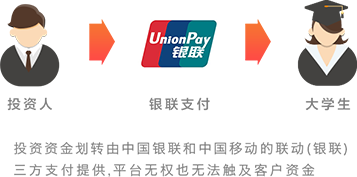
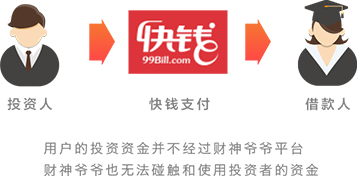
update

diff --git a/src/app/help/help.html b/src/app/help/help.html
@@ -7,14 +7,14 @@
 			<accordion>
 				<accordion-group heading="关于我们" is-open="true">
 					<p>财神爷爷，是麦子金服移动金融集团为广大普通投资用户创建的一个安全、灵活、高收益的互联网理财平台，通过“互联网+”以及移动互联网致力于为用户实现金融平权，普惠金融之梦。</p>
-					<p>财神爷爷提供至少高达8.88%的活期年化利率，按日计息，随取随存，秒杀余某宝等活期理财产品；财神爷爷所有投资资金由银联三方支付公司提供资金独立安全托管，阳光财险公司100亿保函承保；债权全部来自麦子金服移动金融集团旗下的名校贷优质、安全、小额的本科以上大学生助学贷款，并由全球排名第一会计事务所德勤严格专业的债权质量和财务审计。</p>
+					<p>财神爷爷提供至少高达8.88%的活期年化利率，按日计息，随取随存，秒杀余某宝等活期理财产品；财神爷爷所有投资资金由银联三方支付公司提供资金独立安全托管，阳光财险公司100亿保函承保；债权全部来自麦子金服移动金融集团旗下的名校贷、大房东等有本息担保的优质债权，并由全球排名第一会计事务所德勤严格专业的债权质量和财务审计。</p>
 				</accordion-group>
 
 				<accordion-group heading="财神爷爷的特点及优势">
 					<ol>
-						<li>随存随取，灵活便捷：1元起投，当日计息，随时提现，平均到账时间3小时左右。</li>
-						<li>活期高收益：活期年化利率8.88%，是余额宝的3倍，银行活期的25倍，按日计息。</li>
-						<li>本息保障：银联三方支付进行账户监管，账户资金安全由阳光财险集团承保，Verisign提供权威认证，麦子金服提供1亿元人民币连带责任本息担保。</li>
+						<li>随存随取，灵活便捷：1元起投，当日计息，随时提现，平均到账时间2小时左右。</li>
+						<li>活期高收益：活期年化收益率8.88%，是余额宝的3倍，银行活期的25倍。</li>
+						<li>本息保障：快钱三方支付进行账户监管，账户资金安全由阳光财险集团承保，Verisign提供权威认证，麦子金服提供本息担保。</li>
 					</ol>
 				</accordion-group>
 
@@ -92,7 +92,7 @@
 					</div>
 					<div class="row">
 						<div class="col-xs-offset-2 col-xs-2">招商银行</div>
-						<div class="col-xs-2">20万</div>
+						<div class="col-xs-2">5万</div>
 						<div class="col-xs-2">20万</div>
 					</div>
 					<div class="row">
@@ -118,7 +118,7 @@
 
 				<accordion-group heading="财神爷爷购买、提现有手续费吗？">
 					当前您的每一笔购买、提现均不收手续费；后期若有收取，我们会提前公告通知您。
-				</accordion-group>	
+				</accordion-group>
 
 				<accordion-group heading="在财神爷爷提现，资金多久能到账？">
 					我们最快24小时以内，最迟48小时内，目前平均到账时间2小时左右。

diff --git a/src/app/advantage/advantage.html b/src/app/advantage/advantage.html
@@ -3,8 +3,8 @@
 		<div class="row">
 			<div class="col-xs-6 columns text-center img-01"></div>
 			<div class="col-xs-6 columns">
-				<div class="title green">联动(银联+移动)三方托管<br>平台⽆法接触投资者的理财基⾦</div>
-				<div class="desc">联动优势科技有限公司由中国移动与中国银联于2003年8月联合发起成立，致力于为企业和消费者提供创新、绿色、安全、高效的金融及电子商务产品和服务，是目前国内领先的跨综合支付服务、智能金融信息服务、移动化的本地多应用服务三大领域的移动金融及移动电子商务产业链服务提供商。</div>
+				<div class="title green">快钱第三方支付平台资金托管<br>确保财神爷爷平台无法碰触用户投资资金</div>
+				<div class="desc">快钱公司是国内领先的创新型互联网金融机构。基于十多年在电子支付领域的积累为消费者和企业提供丰富的支付工具。快钱产品和服务的高度安全性以及严格的风险控制体系深受业内专家和众多企业的好评。快钱整套安全体系获得了美国MasterCard网站信息安全认证、美国Visa持卡人信息安全认证和美国AmericanExpress运通的DSS认证，拥有国际最高标准PCI(Payment Card Industry)信息安全认证和ISO/IEC 27001认证。</div>
 			</div>
 		</div>
 
@@ -21,13 +21,13 @@
 			<div class="col-xs-6 columns text-center img-03">
 			</div>
 			<div class="col-xs-6 columns">
-				<div class="title no-desc">麦子金服提供<br><strong>一亿</strong>人民币连带责任本息担保</div>
+				<div class="title no-desc">麦子金服提供本息担保</div>
 			</div>
 		</div>
 
 		<div class="row">
 			<div class="col-xs-6 columns">
-				<div class="title no-desc">名校贷本科以上的大学生消费助学贷款<br>坏账率仅<strong>0.048%</strong>，秒杀全行业</div>
+				<div class="title no-desc">名校贷大学生消费助学贷款<br>坏账率仅<strong>0.048%</strong>，秒杀全行业</div>
 			</div>
 			<div class="col-xs-6 columns text-center img-04">
 			</div>

diff --git a/src/app/main/main.html b/src/app/main/main.html
@@ -10,10 +10,10 @@
 
 
 <div class="container what">
-  <h1 class="text-center">什么是财神爷爷？</h1>
-  <p> 财神爷爷是麦子金服移动金融集团为广大投资用户创建的一个高收益、易存取、高保障的移动互联网投资理财产品，致力于为广大用户提供具有高效快捷安全的移动理财服务。</p>
+  <h1 class="text-center">财神爷爷是谁？</h1>
+  <p> 财神爷爷是麦子金服移动金融集团为广大投资用户创建的一个高收益、低风险、易存取的移动互联网投资理财平台，致力于为用户提供高效、快捷、安全的互联网移动理财服务。借助财神爷爷App，用户可随时随地存取资金，预计年化活期收益率高达8.88%，是目前活期收益率最高的互联网理财产品，接近甚至超过市场上主流定期理财产品。</p>
   <p>
-    财神爷爷的核心是一款可以随时存取的高收益投资理财产品，提供固定8.88%的活期年化收益率，是目前活期利率收益最高的理财产品。财神爷爷立志为广大投资用户创造最大的价值，更高的收益，贴心的服务。
+    财神爷爷平台上可购买的债权，主要来源于麦子金服旗下的名校贷、大房东等资产端的优质贷款债权，由全球排名领先的德勤会计事务所进行严格专业的债权审计，用户在财神爷爷的每一笔投资均由快钱第三方支付平台进行专业资金托管，财神爷爷平台本身并不会碰触到用户的投资资金。阳光财产保险公司还对每笔交易承担保险责任，在投资、提现各环节全面保险投资者的资金安全。
   </p>
 </div>
 

diff --git a/src/app/about/about.html b/src/app/about/about.html
@@ -3,7 +3,7 @@
 		<aside class="side-menu">
 			<ul class="list-unstyled text-center">
 				<li ng-class="{active: state==='about.company'}"><a ui-sref="about.company">公司介绍</a></li>
-				<li ng-class="{active: state==='about.team'}"><a ui-sref="about.team">团队介绍</a></li>
+				<!-- <li ng-class="{active: state==='about.team'}"><a ui-sref="about.team">团队介绍</a></li> -->
 				<li ng-class="{active: state==='about.dynamic'}"><a ui-sref="about.dynamic">公司动态</a></li>
 				<li ng-class="{active: state==='about.join'}"><a ui-sref="about.join">加入我们</a></li>
 				<li ng-class="{active: state==='about.contact'}"><a ui-sref="about.contact">联系我们</a></li>

diff --git a/src/app/main/main.scss b/src/app/main/main.scss
@@ -14,6 +14,10 @@
 	background: url(/assets/images/banner-04.jpg) no-repeat center;
 }
 
+.banner-05{
+  background: url(/assets/images/banner-05.jpg) no-repeat center;
+}
+
 .carousel-control, .carousel-indicators{
 	display: none;
 }

diff --git a/src/app/main/main.controller.js b/src/app/main/main.controller.js
@@ -10,6 +10,7 @@
     var vm = this;
 
     $scope.slides = [
+      {bgName: 'banner-05'},
       {bgName: 'banner-01'},
       {bgName: 'banner-02'},
       {bgName: 'banner-03'},
